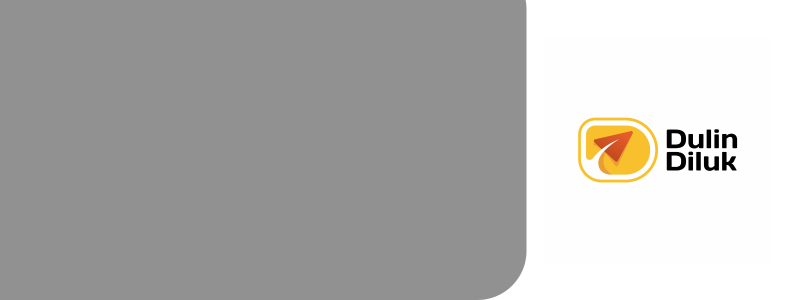
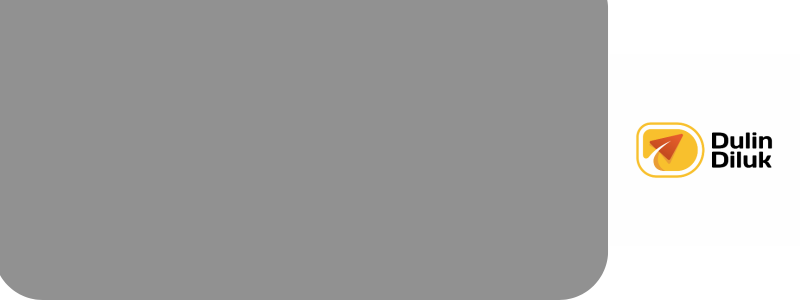
Deploy Hari 2

Changed region(s): [[0.5938, 0.0, 0.9688, 1.0], [0.0, 0.93, 0.0625, 1.0]]

diff --git a/public/assets/css/main.css b/public/assets/css/main.css
@@ -945,8 +945,7 @@
       background-image: url('/assets/img/pagetitle-img/pagetitle4.png'); /* Gambar untuk HP */
       background-position: right center; /* Sesuaikan posisi */
       background-size: cover;
-      padding: 15px;
-      width: 100%;
+      min-height: 180px;
   }
 }
 
